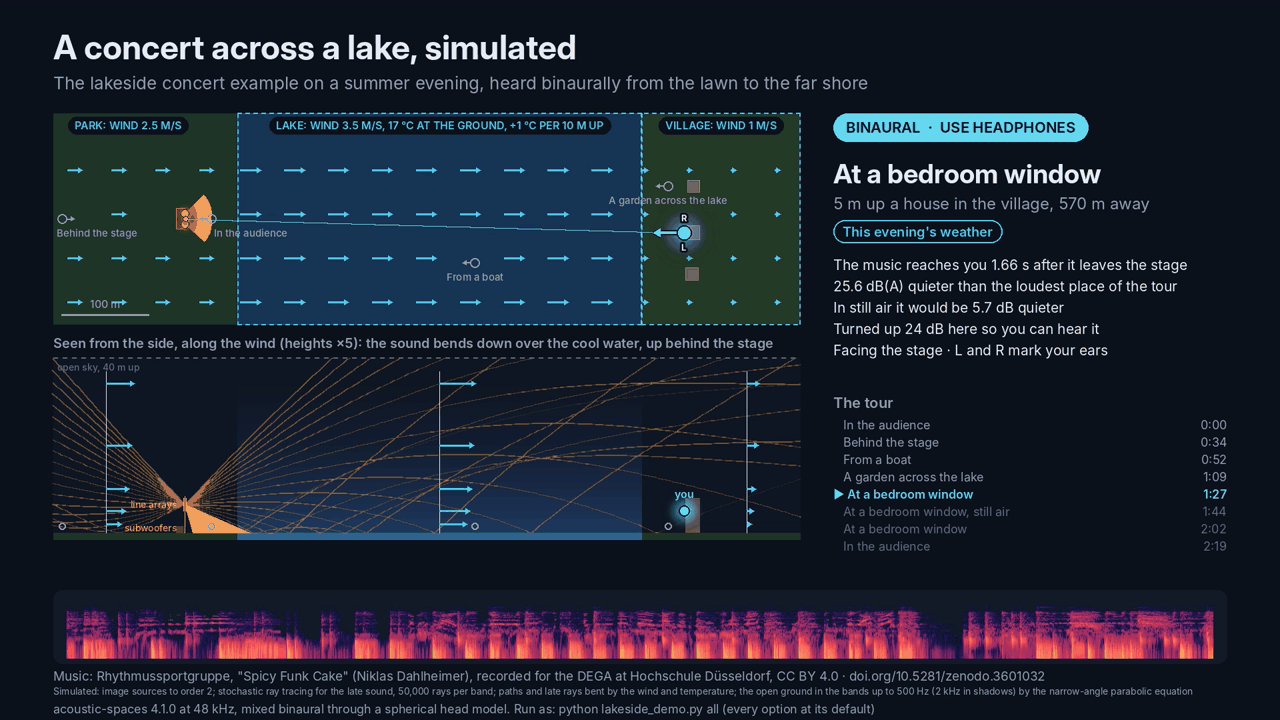
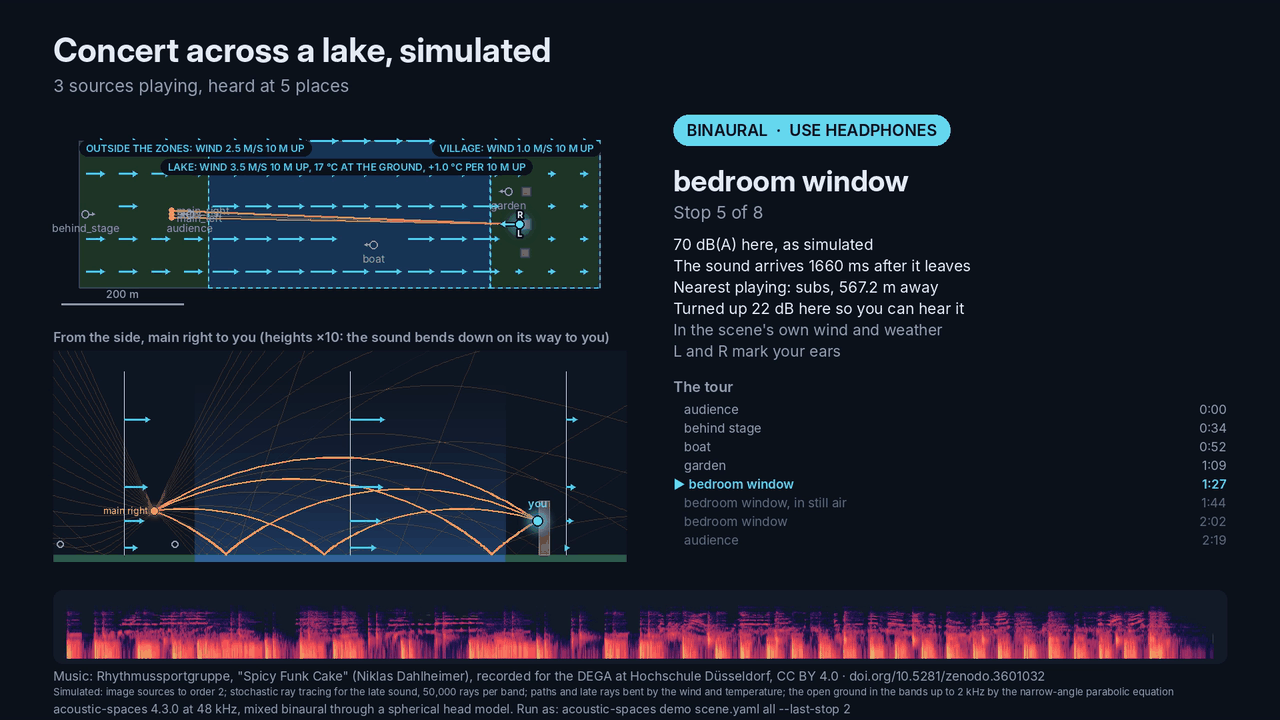
Show the lake demo as it runs now in its docs
The frame is the bedroom window's stop of a whole run of the lakeside demo,
a preset of the demo of its scene: the lake from above with its weathers,
and under it the view from the side with the rays the simulation finds.

Assisted-by: Claude Code

diff --git a/docs/demos.md b/docs/demos.md
@@ -695,7 +695,7 @@ share-alike clause would bind the renders too.
 
 ## A concert across a lake
 
-![A frame of the lake video: the lake from above with the wind's arrows and the weather zones, the stage on the lawn, the boat and the village across the water, the listener at a bedroom window there; under it a slice from the stage across the lake with the sound's rays bending down to the water, the weather's caption and a spectrogram of the sound](images/lake_demo.png)
+![A frame of the lake video: the lake from above with the wind's arrows and the weather zones, the stage on the lawn, the boat and the village across the water, the listener at a bedroom window there; under it the view from the side, from the stage across the lake to the window, with the sound's rays bending down to the water and off it, and beside it the tour; at the foot a spectrogram of the sound](images/lake_demo.png)
 
 `lakeside_demo.py` plays a song from the stage of the `lakeside_concert` example on a
 summer evening and mixes it in the audience on the lawn, 140 m behind the stage, on a
